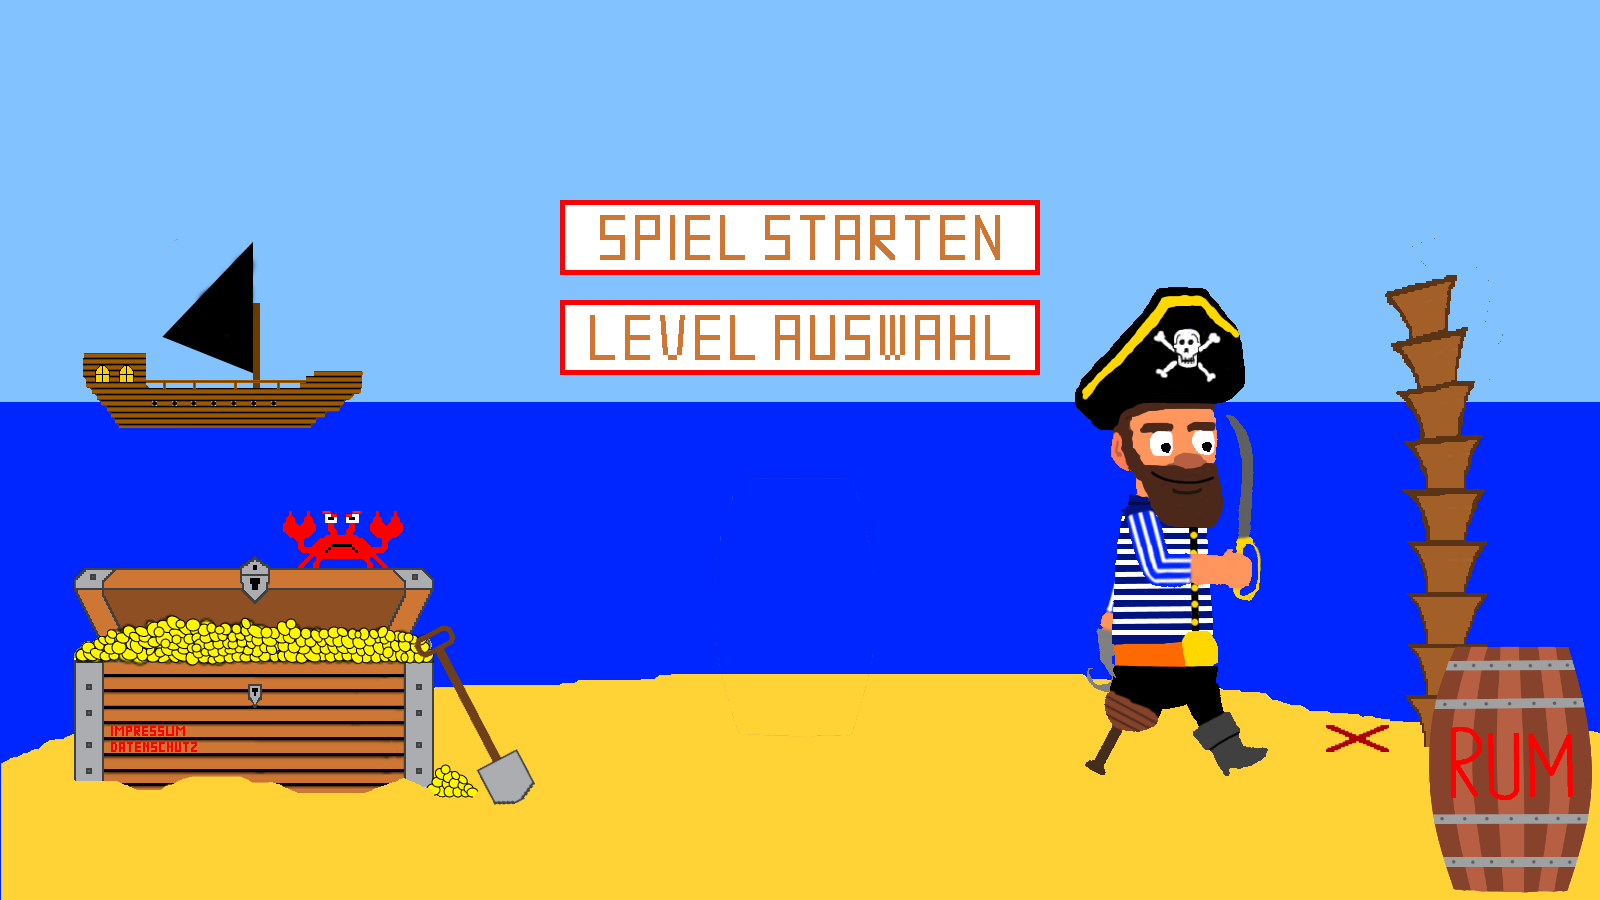
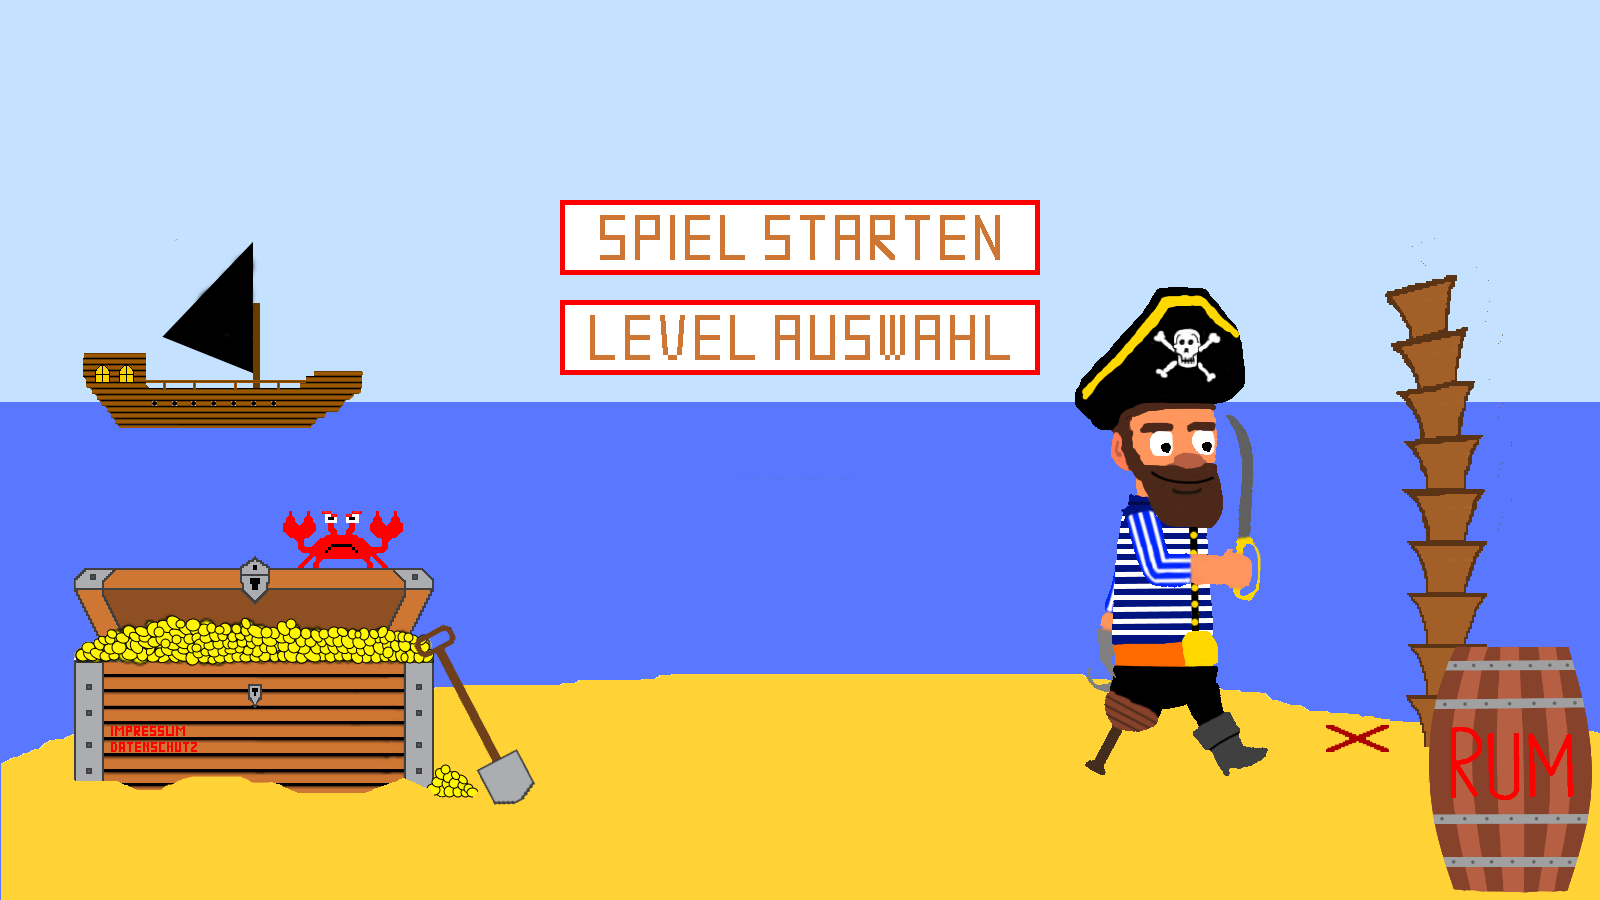
NK:  Wolkenbewegung in Main Canvas; Anpassung Bilder

diff --git a/Sidescroller/javascript/GameDrawMovingObjects.js b/Sidescroller/javascript/GameDrawMovingObjects.js
@@ -1,0 +1,26 @@
+var shiftCloudOne = 1.5;
+var startXCloudOne = 600;
+var startYCloudOne = 35;
+var startXCloudOneCopy;
+
+var shiftCloudTwo = 1;
+var startXCloudTwo = 100;
+var startYCloudTwo = 100;
+var startXCloudTwoCopy;
+
+var shiftCloudThree = 2;
+var startXCloudThree = 900;
+var startYCloudThree = 50;
+var startXCloudThreeCopy;
+
+var shiftCloudFour = 3;
+var startXCloudFour = 400;
+var startYCloudFour = 100;
+var startXCloudFourCopy;
+
+function drawClouds() {
+    startXCloudOne = paintMovingObject(startXCloudOne, startYCloudOne, wolkenformatZwei, startXCloudOneCopy, shiftCloudOne);
+    startXCloudTwo = paintMovingObject(startXCloudTwo, startYCloudTwo, wolkenformatZwei, startXCloudTwoCopy, shiftCloudTwo);
+    startXCloudThree = paintMovingObject(startXCloudThree, startYCloudThree, wolkenformatDrei, startXCloudThreeCopy, shiftCloudThree);
+    startXCloudFour = paintMovingObject(startXCloudFour, startYCloudFour, wolkenformatEins, startXCloudFourCopy, shiftCloudFour);
+}

diff --git a/Sidescroller/javascript/Imagefiller.js b/Sidescroller/javascript/Imagefiller.js
@@ -41,6 +41,7 @@ function fillImages() {
     death_pirate_image.src = '../images/Toter_Pirat.png';
 
     mainMenue.src = '../images/hintergrund_menue.png';
+
     wolkenformatEins.src = '../images/wolkenformat_Eins.png';
     wolkenformatZwei.src = '../images/wolkenformat_Zwei.png';
     wolkenformatDrei.src = '../images/wolkenformat_Drei.png';
@@ -48,7 +49,7 @@ function fillImages() {
     earthBlock.src = '../images/erdblock.png';
     grassBlock.src = '../images/block.png';
     lava.src = '../images/lava.png';
-	background.src = '../images/heavenlarge.png';
+    background.src = '../images/hintergrund_Spiel_PNG.png';
     quadrat.src = '../images/rahmen.png';
 
     defeatScreen.src = '../images/Defeatscreen.png';

diff --git a/Sidescroller/html/GameCanvas.html b/Sidescroller/html/GameCanvas.html
@@ -11,11 +11,13 @@
     <script type="text/javascript" src="../javascript/PlayerCharacter.js"></script>
     <script type="text/javascript" src="../javascript/MenuFunctions.js"></script>
     <script type="text/javascript" src="../javascript/GameCanvas_Main.js"></script>
+    <script type="text/javascript" src="../javascript/GameDrawMovingObjects.js"></script>
+    <script type="text/javascript" src="../javascript/MoveObjects.js"></script>
     <script>
         console.log("start Init func");
         window.onload = init;
 
-                            //request animation frame
+                                //request animation frame
     </script>
 </head>
 <body>

diff --git a/Sidescroller/javascript/GameCanvas_Main.js b/Sidescroller/javascript/GameCanvas_Main.js
@@ -76,7 +76,8 @@ function update() {
 
 function draw() {
 	ctx.clearRect(0, 0, 1000, 200);
-	ctx.drawImage(background, backgroundPosition, 0);
+    ctx.drawImage(background, backgroundPosition, 0);
+    drawClouds();
 	for (var i = 0; i < physicalObjectArray.length; i++) {
 		ctx.drawImage(physicalObjectArray[i].img, physicalObjectArray[i].left, physicalObjectArray[i].top);
 	}
